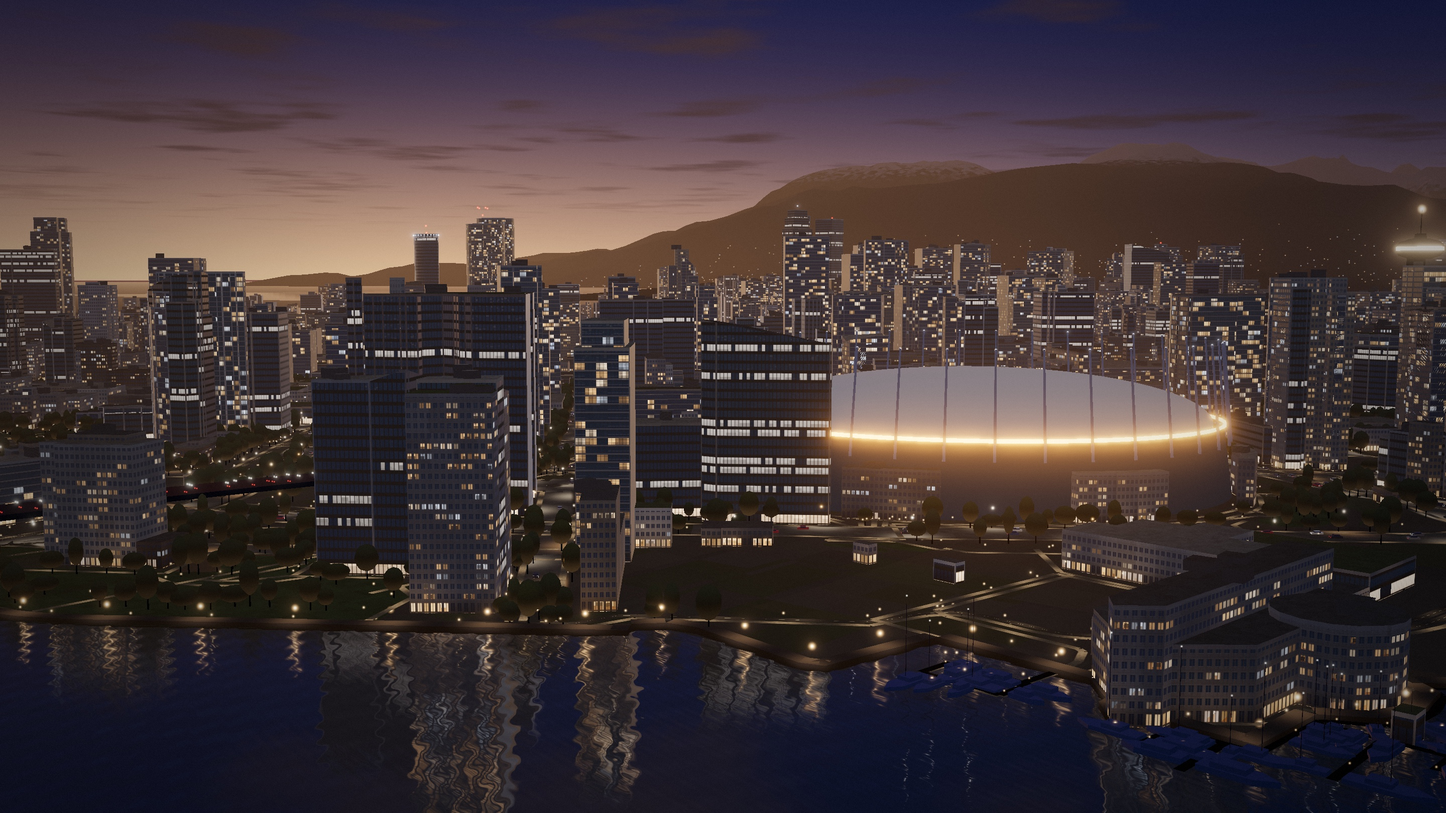
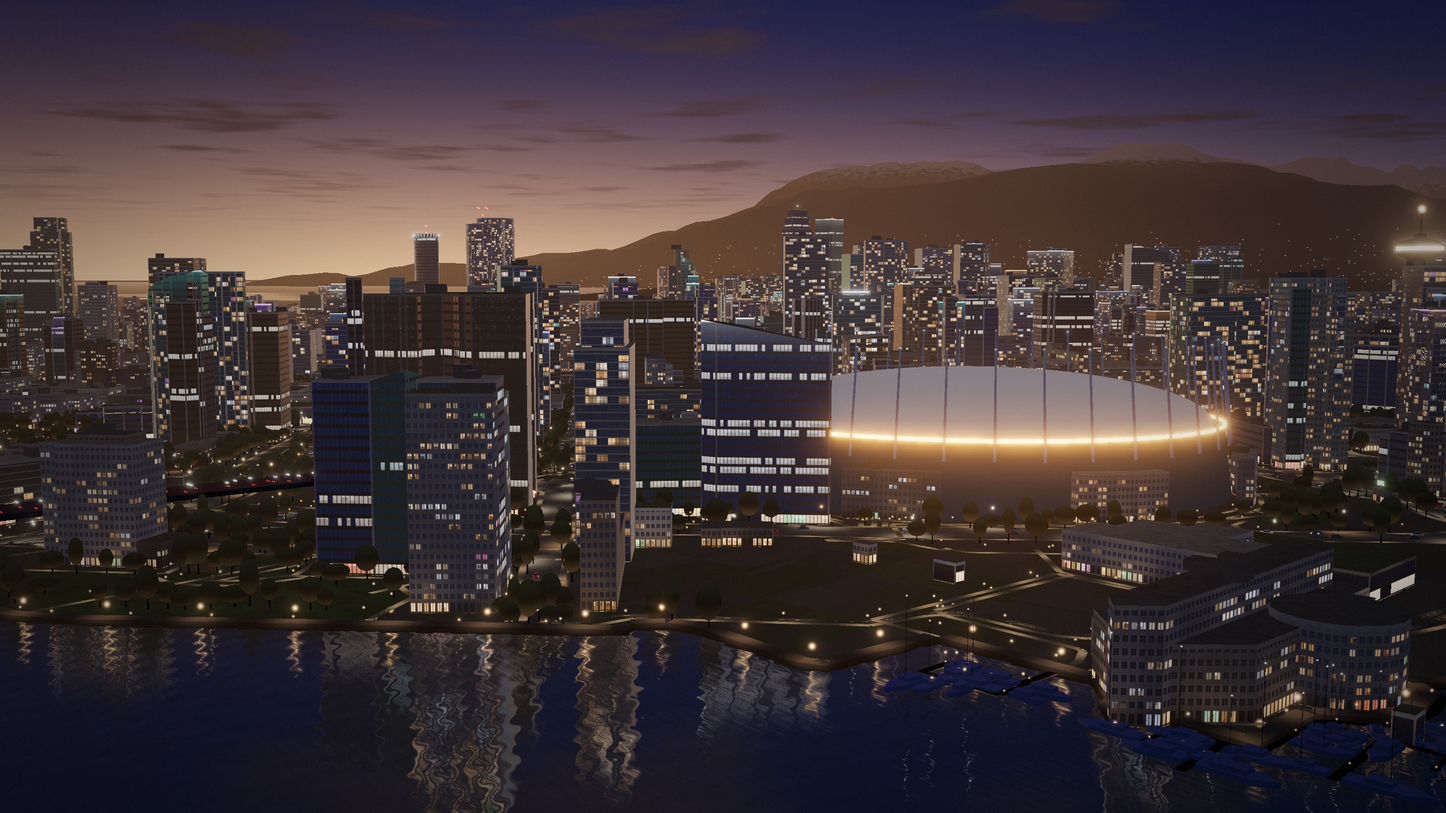
Hero: more colour in the city
Per-building glass (green-teal, blue, bronze, silver, smoked) and mullion metals, a wider
range of window light from 2700 K to 5000 K with per-building styles, the odd coloured LED
room, shop signs at street level, coloured LED crowns on some towers, and traffic signals
at main intersections. Posters re-rendered.

diff --git a/src/hero/buildings.js b/src/hero/buildings.js
@@ -201,8 +201,19 @@ export function createFacadeMaterial(uniforms) {
         vec3 warm = vec3(1.0, 0.58, 0.26);
         vec3 neutral = vec3(1.0, 0.78, 0.55);
         vec3 cool = vec3(0.76, 0.86, 1.0);
-        vec3 lampCol = r3 < 0.55 ? warm : (r3 < 0.85 ? neutral : cool);
-        lampCol = mix(lampCol, mix(neutral, cool, 0.5), isOffice);
+        // Each building has a lighting style (some warmer, some cooler), and homes vary from 2700 K
+        // tungsten to 5000 K daylight LED; offices are a building-wide 4000 K or 5000 K.
+        float style = hash12(vec2(vSeed * 61.0, 8.0));
+        vec3 k2700 = vec3(1.0, 0.52, 0.22), k3000 = vec3(1.0, 0.64, 0.34), k4000 = vec3(1.0, 0.82, 0.62), k5000 = vec3(0.8, 0.88, 1.0);
+        float rk = clamp(r3 * 0.8 + style * 0.45 - 0.15, 0.0, 1.0);
+        vec3 lampCol = rk < 0.3 ? k2700 : rk < 0.58 ? k3000 : rk < 0.82 ? k4000 : k5000;
+        vec3 officeCol = style < 0.4 ? mix(k4000, k5000, 0.3) : style < 0.85 ? mix(k4000, k5000, 0.75) : vec3(0.72, 0.9, 0.95);
+        lampCol = mix(lampCol, officeCol, isOffice);
+        // A few homes with coloured LED strips or grow lights.
+        float rgb = step(0.98, hash12(unit * 5.3 + vSeed * 17.0)) * (1.0 - isOffice);
+        float hue = hash12(unit * 9.1 + vSeed * 5.0);
+        vec3 accentRoom = hue < 0.3 ? vec3(0.62, 0.32, 1.0) : hue < 0.5 ? vec3(1.0, 0.3, 0.62) : hue < 0.7 ? vec3(0.25, 0.85, 0.9) : hue < 0.85 ? vec3(1.0, 0.28, 0.2) : vec3(0.45, 1.0, 0.45);
+        lampCol = mix(lampCol, accentRoom, rgb);
         float bright = mix(0.3, 1.2, r2 * r2) * mix(1.0, 0.55, isOffice);
         // Office floors are one room: every panel on a floor shares the light level.
         bright = mix(bright, mix(0.45, 0.7, floorRand), isOffice);
@@ -215,6 +226,11 @@ export function createFacadeMaterial(uniforms) {
         lampCol = mix(lampCol, vec3(0.55, 0.7, 1.0), tv);
         bright = mix(bright, bright * flick, tv);
         lampCol = mix(lampCol, warm, ground * 0.6);
+        // Shopfronts: some carry a coloured sign or neon.
+        float shop = ground * step(0.7, hash12(unit * 2.9 + vSeed * 13.0));
+        float signHue = hash12(unit * 4.7 + vSeed);
+        vec3 signCol = signHue < 0.3 ? vec3(1.0, 0.2, 0.15) : signHue < 0.5 ? vec3(0.3, 0.55, 1.0) : signHue < 0.7 ? vec3(1.0, 0.45, 0.85) : signHue < 0.85 ? vec3(0.35, 1.0, 0.6) : vec3(1.0, 0.85, 0.3);
+        lampCol = mix(lampCol, signCol, shop * 0.7);
         float emitK = uWindowIntensity * lit * (1.0 + ground * 0.15);
         // Flat (distant) version of a lit window: ceiling lights make the top a little brighter.
         vec3 flatRoom = lampCol * mix(0.75, 1.1, f.y);
@@ -248,15 +264,23 @@ export function createFacadeMaterial(uniforms) {
         vec3 R = reflect(-V, np);
         R.y = abs(R.y) * 0.9 + 0.02;
         float fres = 0.04 + 0.96 * pow(1.0 - max(dot(np, V), 0.0), 5.0);
-        vec3 tint = mix(vec3(0.008, 0.014, 0.02), vec3(0.008, 0.018, 0.017), hash12(vec2(vSeed * 3.0, 9.0)));
-        vec3 glassCol = tint + skyColor(R) * mix(0.25, 0.9, fres);
+        // Glass type per building: Vancouver's green-teal condo glass, blue, bronze, silver or dark smoked.
+        float gk = hash12(vec2(vSeed * 23.0, 4.0));
+        vec3 glassTint = gk < 0.32 ? vec3(0.42, 0.98, 0.85) : gk < 0.52 ? vec3(0.42, 0.7, 1.15) : gk < 0.66 ? vec3(1.15, 0.75, 0.45) : gk < 0.86 ? vec3(0.88, 0.9, 0.94) : vec3(0.5, 0.52, 0.56);
+        vec3 tint = vec3(0.009, 0.014, 0.018) * glassTint * 1.3;
+        vec3 glassCol = tint + skyColor(R) * mix(0.25, 0.9, fres) * glassTint;
         // The city reflected in the glass: a faint band of distant lit windows near the horizon.
         float az = atan(R.x, R.z);
         float cityBand = (1.0 - smoothstep(0.0, 0.12, R.y)) * step(0.9, hash12(floor(vec2(az * 420.0, R.y * 900.0))));
         glassCol += vec3(1.0, 0.7, 0.4) * cityBand * 0.14 * detail * mix(0.4, 1.0, fres);
 
-        vec3 frameCol = mix(wallLit, vec3(0.018, 0.02, 0.025), 1.0 - isConcrete);
-        frameCol = mix(frameCol, vec3(0.012, 0.013, 0.016), isOffice); // spandrels
+        // Mullions/slab edges per building: white, black, bronze or grey metal; office spandrels take the
+        // glass colour.
+        float mk = hash12(vec2(vSeed * 37.0, 6.0));
+        vec3 metal = mk < 0.3 ? vec3(0.07, 0.072, 0.078) : mk < 0.55 ? vec3(0.012, 0.013, 0.015) : mk < 0.72 ? vec3(0.04, 0.028, 0.017) : vec3(0.03, 0.032, 0.036);
+        metal *= skyAmb * vec3(0.75, 0.8, 0.95);
+        vec3 frameCol = mix(wallLit, metal, 1.0 - isConcrete);
+        frameCol = mix(frameCol, vec3(0.011) * glassTint * 1.2 + metal * 0.3, isOffice); // spandrels
         frameCol += vec3(0.02, 0.016, 0.012) * washCol * (1.0 - isConcrete);
         // Parapet cap and corner trim: a little lighter (metal / precast), catching the sky.
         frameCol = mix(frameCol, wallLit * 1.15 + vec3(0.004, 0.005, 0.008), max(parapet, corner * (1.0 - isConcrete)) * (1.0 - isConcrete * 0.6));
@@ -267,7 +291,7 @@ export function createFacadeMaterial(uniforms) {
 
         // Far away: average instead of aliasing.
         float avgLit = mix(litShare, 0.27, isOffice);
-        vec3 avgLamp = mix(mix(warm, neutral, 0.4), cool, isOffice * 0.7) * 0.62 * uWindowIntensity * avgLit;
+        vec3 avgLamp = mix(mix(k3000, k4000, style), officeCol, isOffice) * 0.62 * uWindowIntensity * avgLit;
         // Distant facades read as dark walls with a glow of windows, not pale blocks: darken the wall part.
         vec3 far = mix(frameCol * 0.55, glassCol * (1.0 - avgLit * 0.85) + avgLamp, windowArea);
         far = mix(far, slabCol * 0.6, isResi * 0.16);
@@ -316,6 +340,15 @@ export function createFacadeMaterial(uniforms) {
           near = mix(near, slabCol, slab);
           col = mix(near, far, farMix);
         }
+
+        // Feature lighting on some towers: a coloured LED band at the crown washing down the top floors
+        // (white, blue, purple, teal or amber), visible across the city.
+        float crownOn = step(55.0, vTop) * step(hash12(vec2(vSeed * 71.0, 2.0)), 0.2);
+        float ch = hash12(vec2(vSeed * 83.0, 1.0));
+        vec3 crownCol = ch < 0.3 ? vec3(0.85, 0.92, 1.0) : ch < 0.5 ? vec3(0.25, 0.45, 1.0) : ch < 0.68 ? vec3(0.6, 0.3, 1.0) : ch < 0.84 ? vec3(0.15, 0.85, 0.8) : vec3(1.0, 0.55, 0.2);
+        float dTop = vTop - vWorld.y;
+        float crownBand = (1.0 - smoothstep(0.2, 1.4, dTop)) * 1.6 + exp(-max(dTop, 0.0) / 6.0) * 0.14;
+        col += crownCol * crownBand * crownOn * step(dTop, 40.0);
         gl_FragColor = vec4(applyFog(col, vWorld), 1.0);
       }
     `,

diff --git a/src/hero/streets.js b/src/hero/streets.js
@@ -86,6 +86,32 @@ export function createStreets(roads, uniforms, { camera = [0, 0], maxDistance = 
     }
   }
 
+  // Traffic signals at main intersections near the camera: where two roads cross and one is a main road.
+  // Each corner gets a signal head; one direction shows green, the cross street red, a few amber.
+  const ends = new Map();
+  roads.forEach((road, ri) => {
+    for (const p of road.line) {
+      const key = `${Math.round(p[0] / 10)},${Math.round(p[1] / 10)}`;
+      const e = ends.get(key) ?? { p, roads: new Set(), main: false };
+      e.roads.add(ri); e.main ||= road.main;
+      ends.set(key, e);
+    }
+  });
+  const placed = [];
+  for (const e of ends.values()) {
+    const d = Math.hypot(e.p[0] - camera[0], e.p[1] - camera[1]);
+    if (e.roads.size < 2 || !e.main || d > 1800 || d < 150) continue;
+    if (placed.some((q) => Math.hypot(q[0] - e.p[0], q[1] - e.p[1]) < 30)) continue;
+    placed.push(e.p);
+    const amber = rand() < 0.15;
+    const ns = rand() < 0.5;
+    for (const [dx, dy, axis] of [[7, 7, 0], [-7, -7, 0], [7, -7, 1], [-7, 7, 1]]) {
+      const go = (axis === 0) === ns;
+      const color = go ? (amber ? [4.5, 2.2, 0.2] : [0.25, 4.2, 1.6]) : [4.6, 0.25, 0.12];
+      lamps.push({ p: [e.p[0] + dx, 5.5, -(e.p[1] + dy)], color, size: 0.45 });
+    }
+  }
+
   const carLights = [];
   for (const lane of lanes) for (let i = 0; i < lane.cars.length * 2; i++) carLights.push({ p: [0, 0, 0], color: lane.color, size: lane.size });
   const bodyCount = lanes.reduce((n, l) => n + (l.bodies ? l.cars.length : 0), 0);
